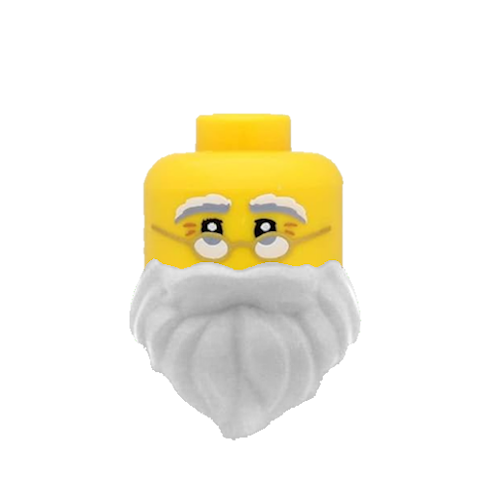
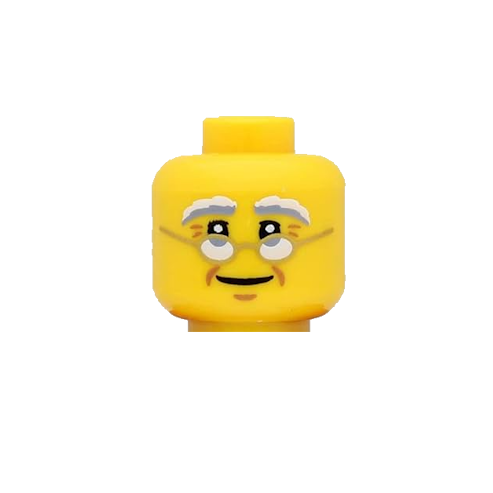
Assets reno

Changed region(s): [[0.2434, 0.213, 0.7302, 0.9128]]

diff --git a/legoCreator.html b/legoCreator.html
@@ -45,7 +45,7 @@
             this.style.backgroundColor='rgb(0,0,0,0.1)'
             ">
 
-          <img id="selectorGorro2" src="assets/legoCreator/gorroSantaIcono.png" alt="" draggable="false" style="
+          <img id="selectorGorro2" src="assets/legoCreator/barbaGorroSanta.png" alt="" draggable="false" style="
             user-select: none;
             padding: 0;
             margin: 0;
@@ -54,7 +54,7 @@
             background-color: rgb(0,0,0,0.1);
             border: black;
             border: solid;" onclick="document.getElementById('gorro1').innerHTML = 
-            '<img src=\'assets/legoCreator/gorroSanta.png\' style=\'width: 170px;\'>'; 
+            '<img src=\'assets/legoCreator/barbaGorroSanta.png\' style=\'width: 170px;\'>'; 
             document.getElementById('gorro2').innerHTML = 
             '<img src=\'assets/legoCreator/blank.png\' style=\'width: 170px;\'>';
             document.getElementById('gorro1').style.marginTop='-22.5%';
@@ -82,7 +82,7 @@
           this.style.backgroundColor='rgb(0,0,0,0.1)'
           ">
 
-          <img id="selectorGorro4" src="assets/legoCreator/blank.png" alt="" draggable="false" style="
+          <img id="selectorGorro4" src="assets/legoCreator/gorroRenoIcono.png" alt="" draggable="false" style="
           user-select: none;
           padding: 0;
           margin: 0;
@@ -90,10 +90,10 @@
           border-radius: 5px;
           border: black;
           border: solid;" onclick="document.getElementById('gorro1').innerHTML = 
-          '<img src=\'assets/legoCreator/blank.png\' style=\'width: 170px;\'>'; 
+          '<img src=\'assets/legoCreator/gorroReno.png\' style=\'width: 170px;\'>'; 
           document.getElementById('gorro2').innerHTML = 
           '<img src=\'assets/legoCreator/blank.png\' style=\'width: 170px;\'>'; 
-          document.getElementById('gorro1').style.marginTop='-22.5%';
+          document.getElementById('gorro1').style.marginTop='-25.3%';
           document.getElementById('selectorGorro1').style.backgroundColor='rgb(0,0,0,0)';
           document.getElementById('selectorGorro2').style.backgroundColor='rgb(0,0,0,0)';
           document.getElementById('selectorGorro3').style.backgroundColor='rgb(0,0,0,0)';
@@ -310,7 +310,7 @@
         position: absolute;
         z-index: 900;
         ">
-          <img src="assets/legoCreator/gorroSanta.png" draggable="false" style="width: 170px;">
+          <img src="assets/legoCreator/barbaGorroSanta.png" draggable="false" style="width: 170px;">
         </td>
 
         <!-- Gorro Detrás -->
@@ -330,7 +330,7 @@
         padding-left: 60%;
         margin-top: -22.8%;
         position: absolute;
-        z-index: 899;
+        z-index: 898;
         ">
           <img src="assets/legoCreator/caraSanta.png" draggable="false" style="width: 170px;">
         </td>
@@ -341,7 +341,7 @@
         padding-left: 60%;
         margin-top: -18.5%;
         position: absolute;
-        z-index: 898;
+        z-index: 899;
         ">
           <img src="assets/legoCreator/camisetaSanta.png" draggable="false" style="width: 170px;">
         </td>
